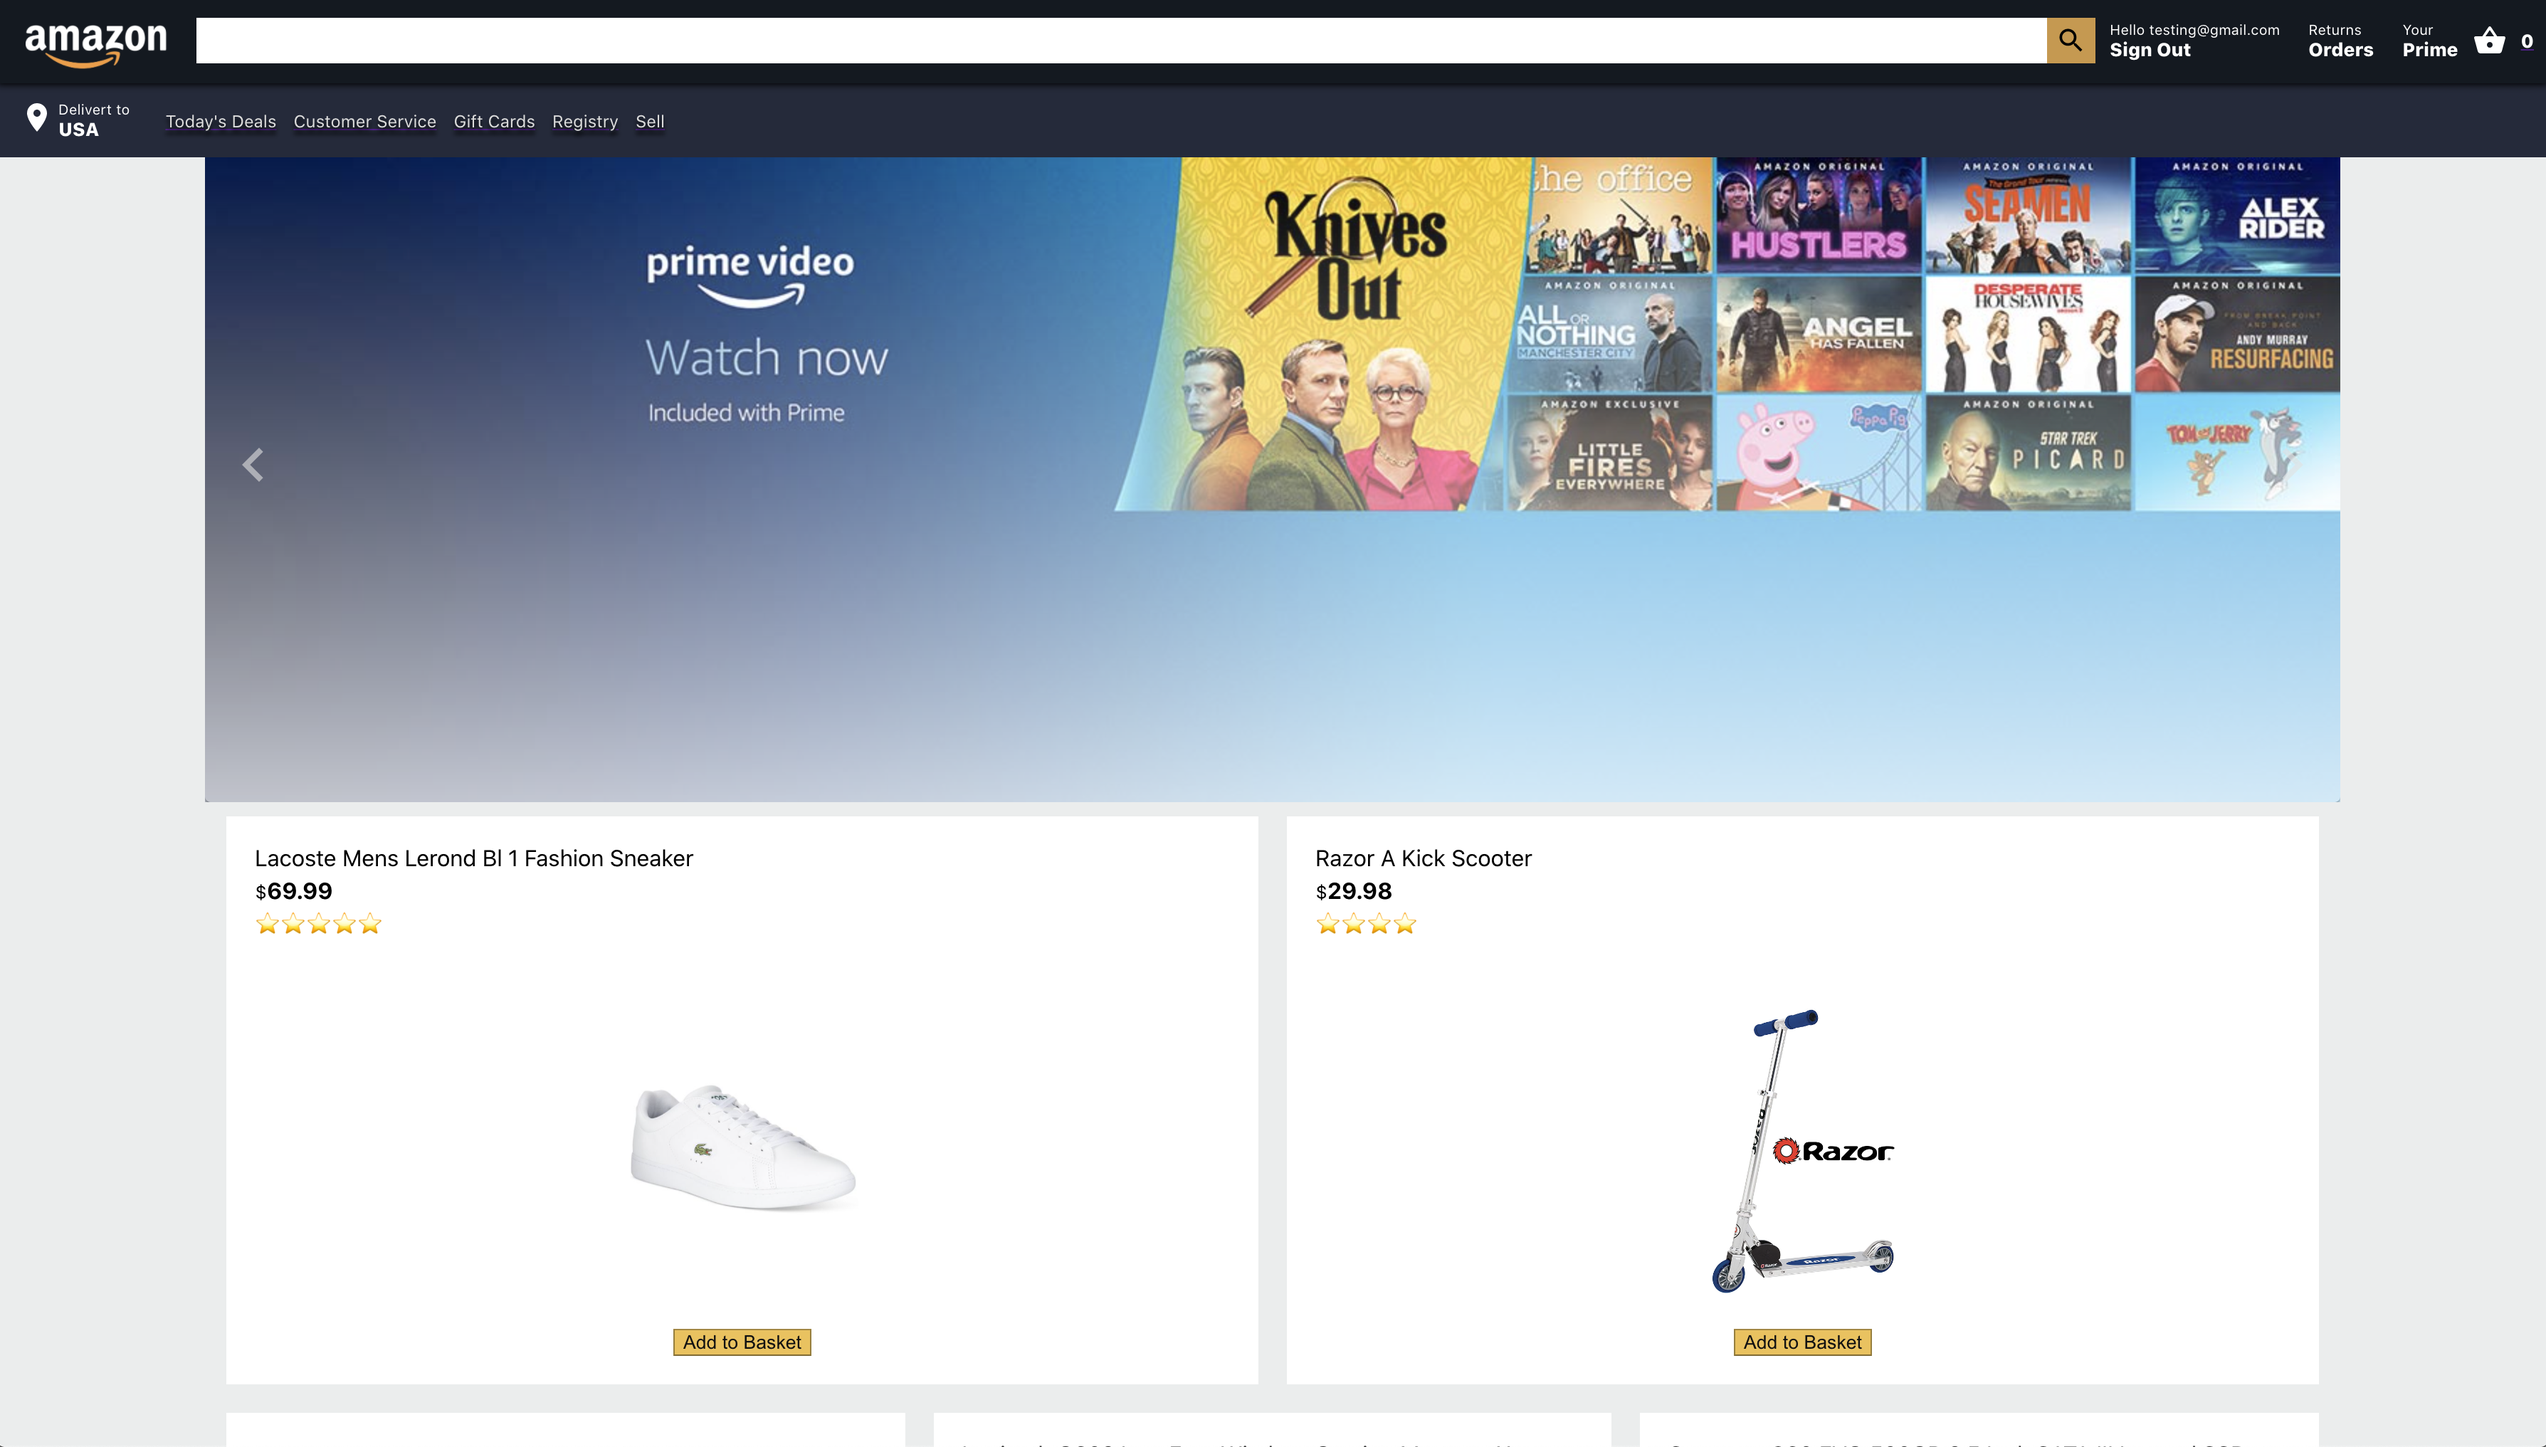
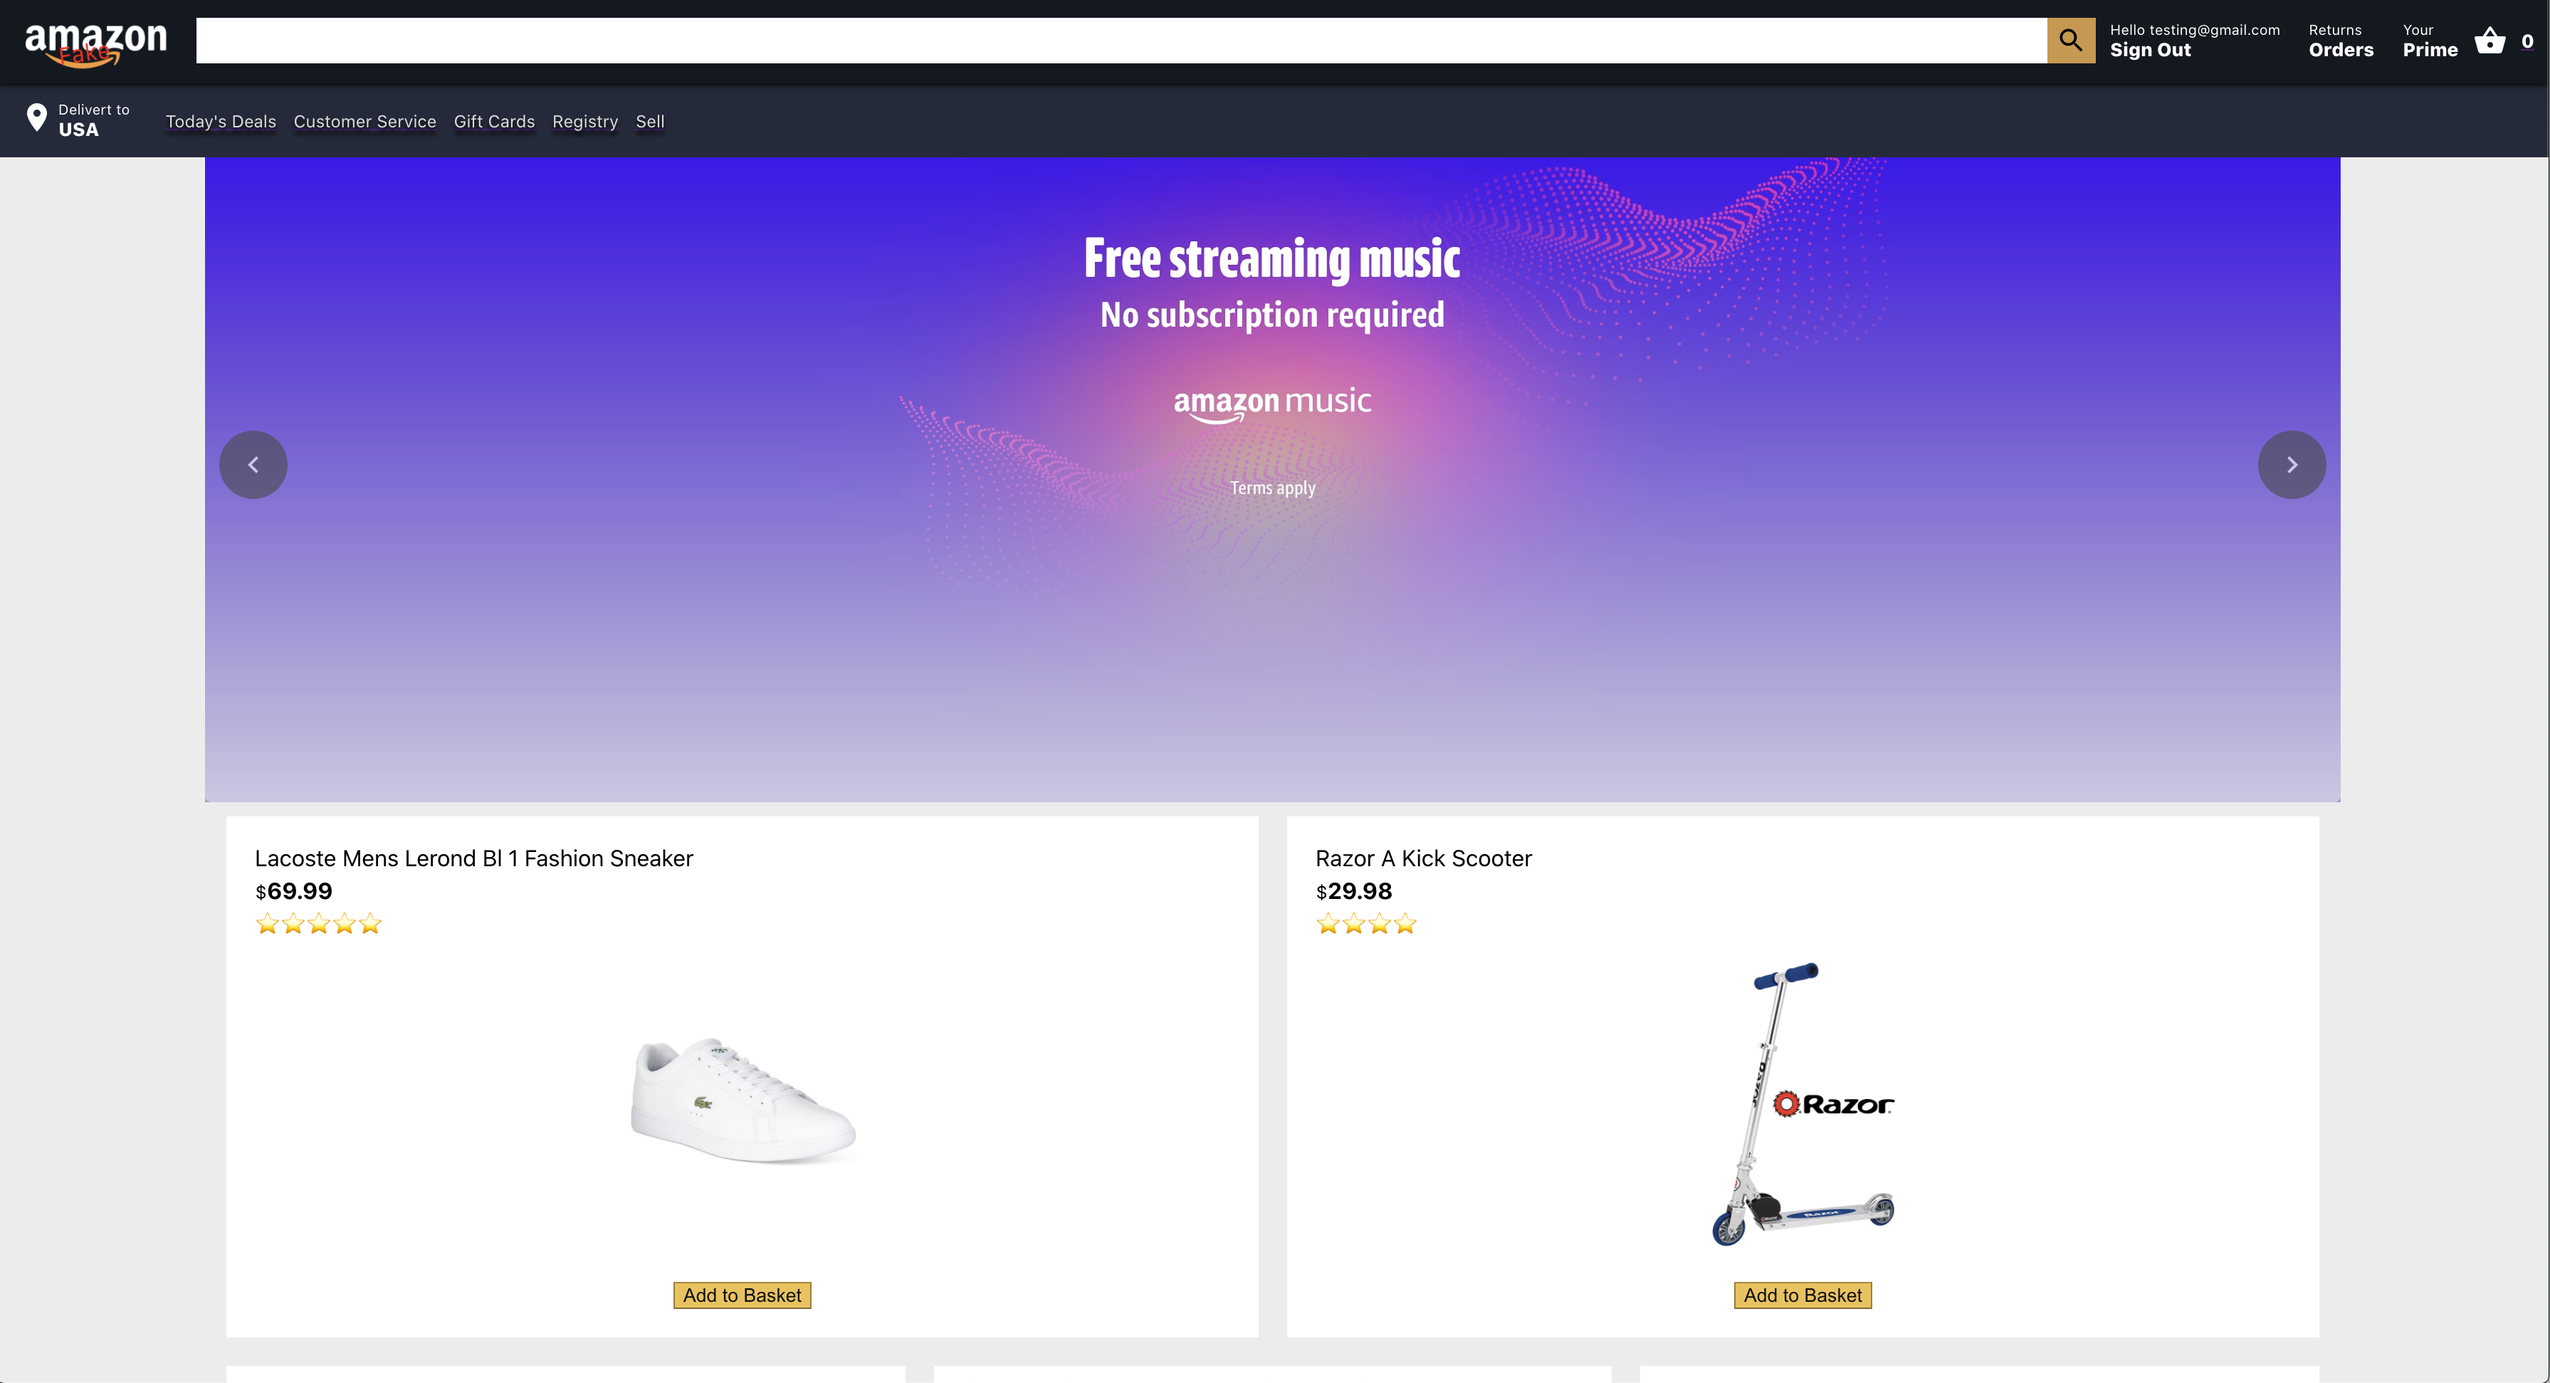
update to readme

diff --git a/README.md b/README.md
@@ -1,4 +1,4 @@
-# **Amazon Mock UI**
+# **Fake Amazon Mock UI**
 
 ### Click the link to view the website
 
@@ -24,19 +24,19 @@
 
 ![Home Page Sceenshot](screenshots/homeScreenshot.png)
 
-[Home Page Sceenshot](https://imgur.com/GKAQjCW)
+[Home Page Sceenshot](https://imgur.com/3Ua2jzo)
 
 ![Cart Page Sceenshot](screenshots/cartScreenshot.png)
 
-[Cart Page Sceenshot](https://imgur.com/0olVfsm)
+[Cart Page Sceenshot](https://imgur.com/hs1zr9o)
 
 ![Checkout Page Sceenshot](screenshots/checkoutScreenshot.png)
 
-[Checkout Page Sceenshot](https://imgur.com/AFKJ7Y0)
+[Checkout Page Sceenshot](https://imgur.com/DOrrH9l)
 
 ![Orders Page Sceenshot](screenshots/ordersScreenshot.png)
 
-[Orders Page Sceenshot](https://imgur.com/eYjR2Iw)
+[Orders Page Sceenshot](https://imgur.com/JEQ8Hin)
 
 ![inProgress Page Sceenshot](screenshots/inprogressScreenshot.png)
 
@@ -44,7 +44,7 @@
 
 ![Login/SignUp Page Sceenshot](screenshots/signInScreenshot.png)
 
-[Login/SignUp Page Sceenshot](https://imgur.com/4kh8bTo)
+[Login/SignUp Page Sceenshot](https://imgur.com/9KqadCr)
 
 ![Stripe payments processed Sceenshot](screenshots/stripePaymentsScreenshot.png)
 
